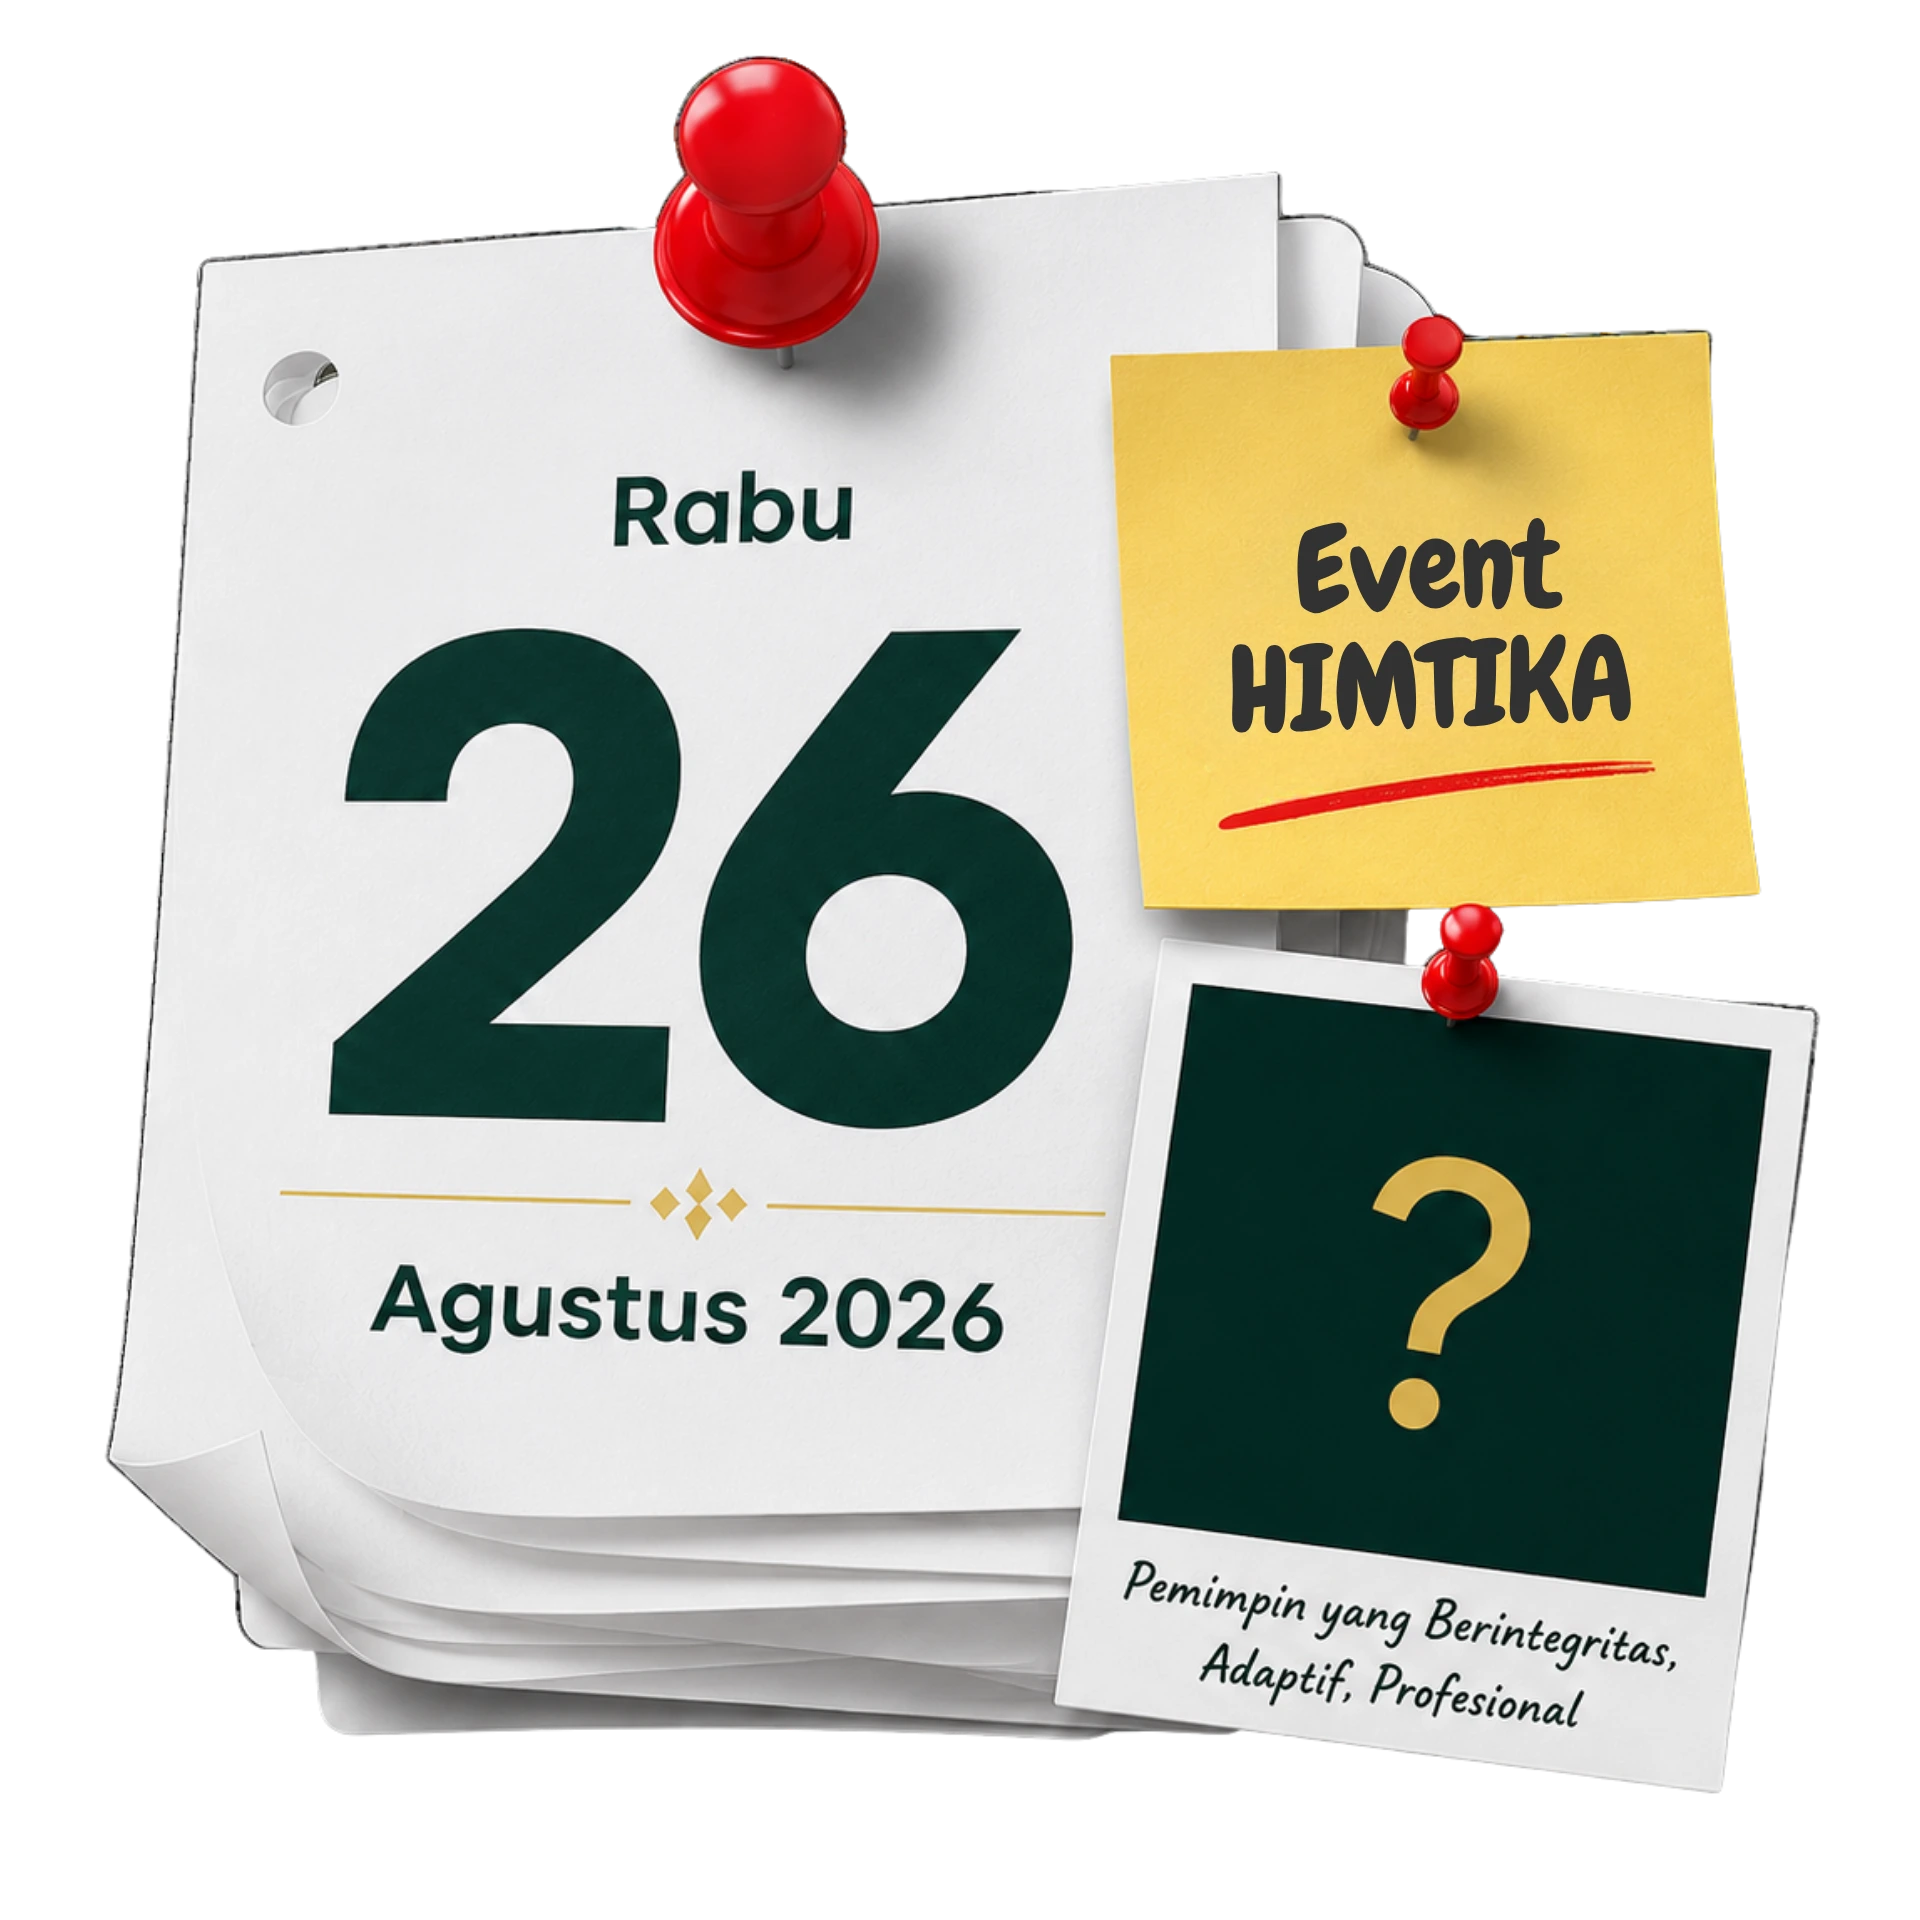
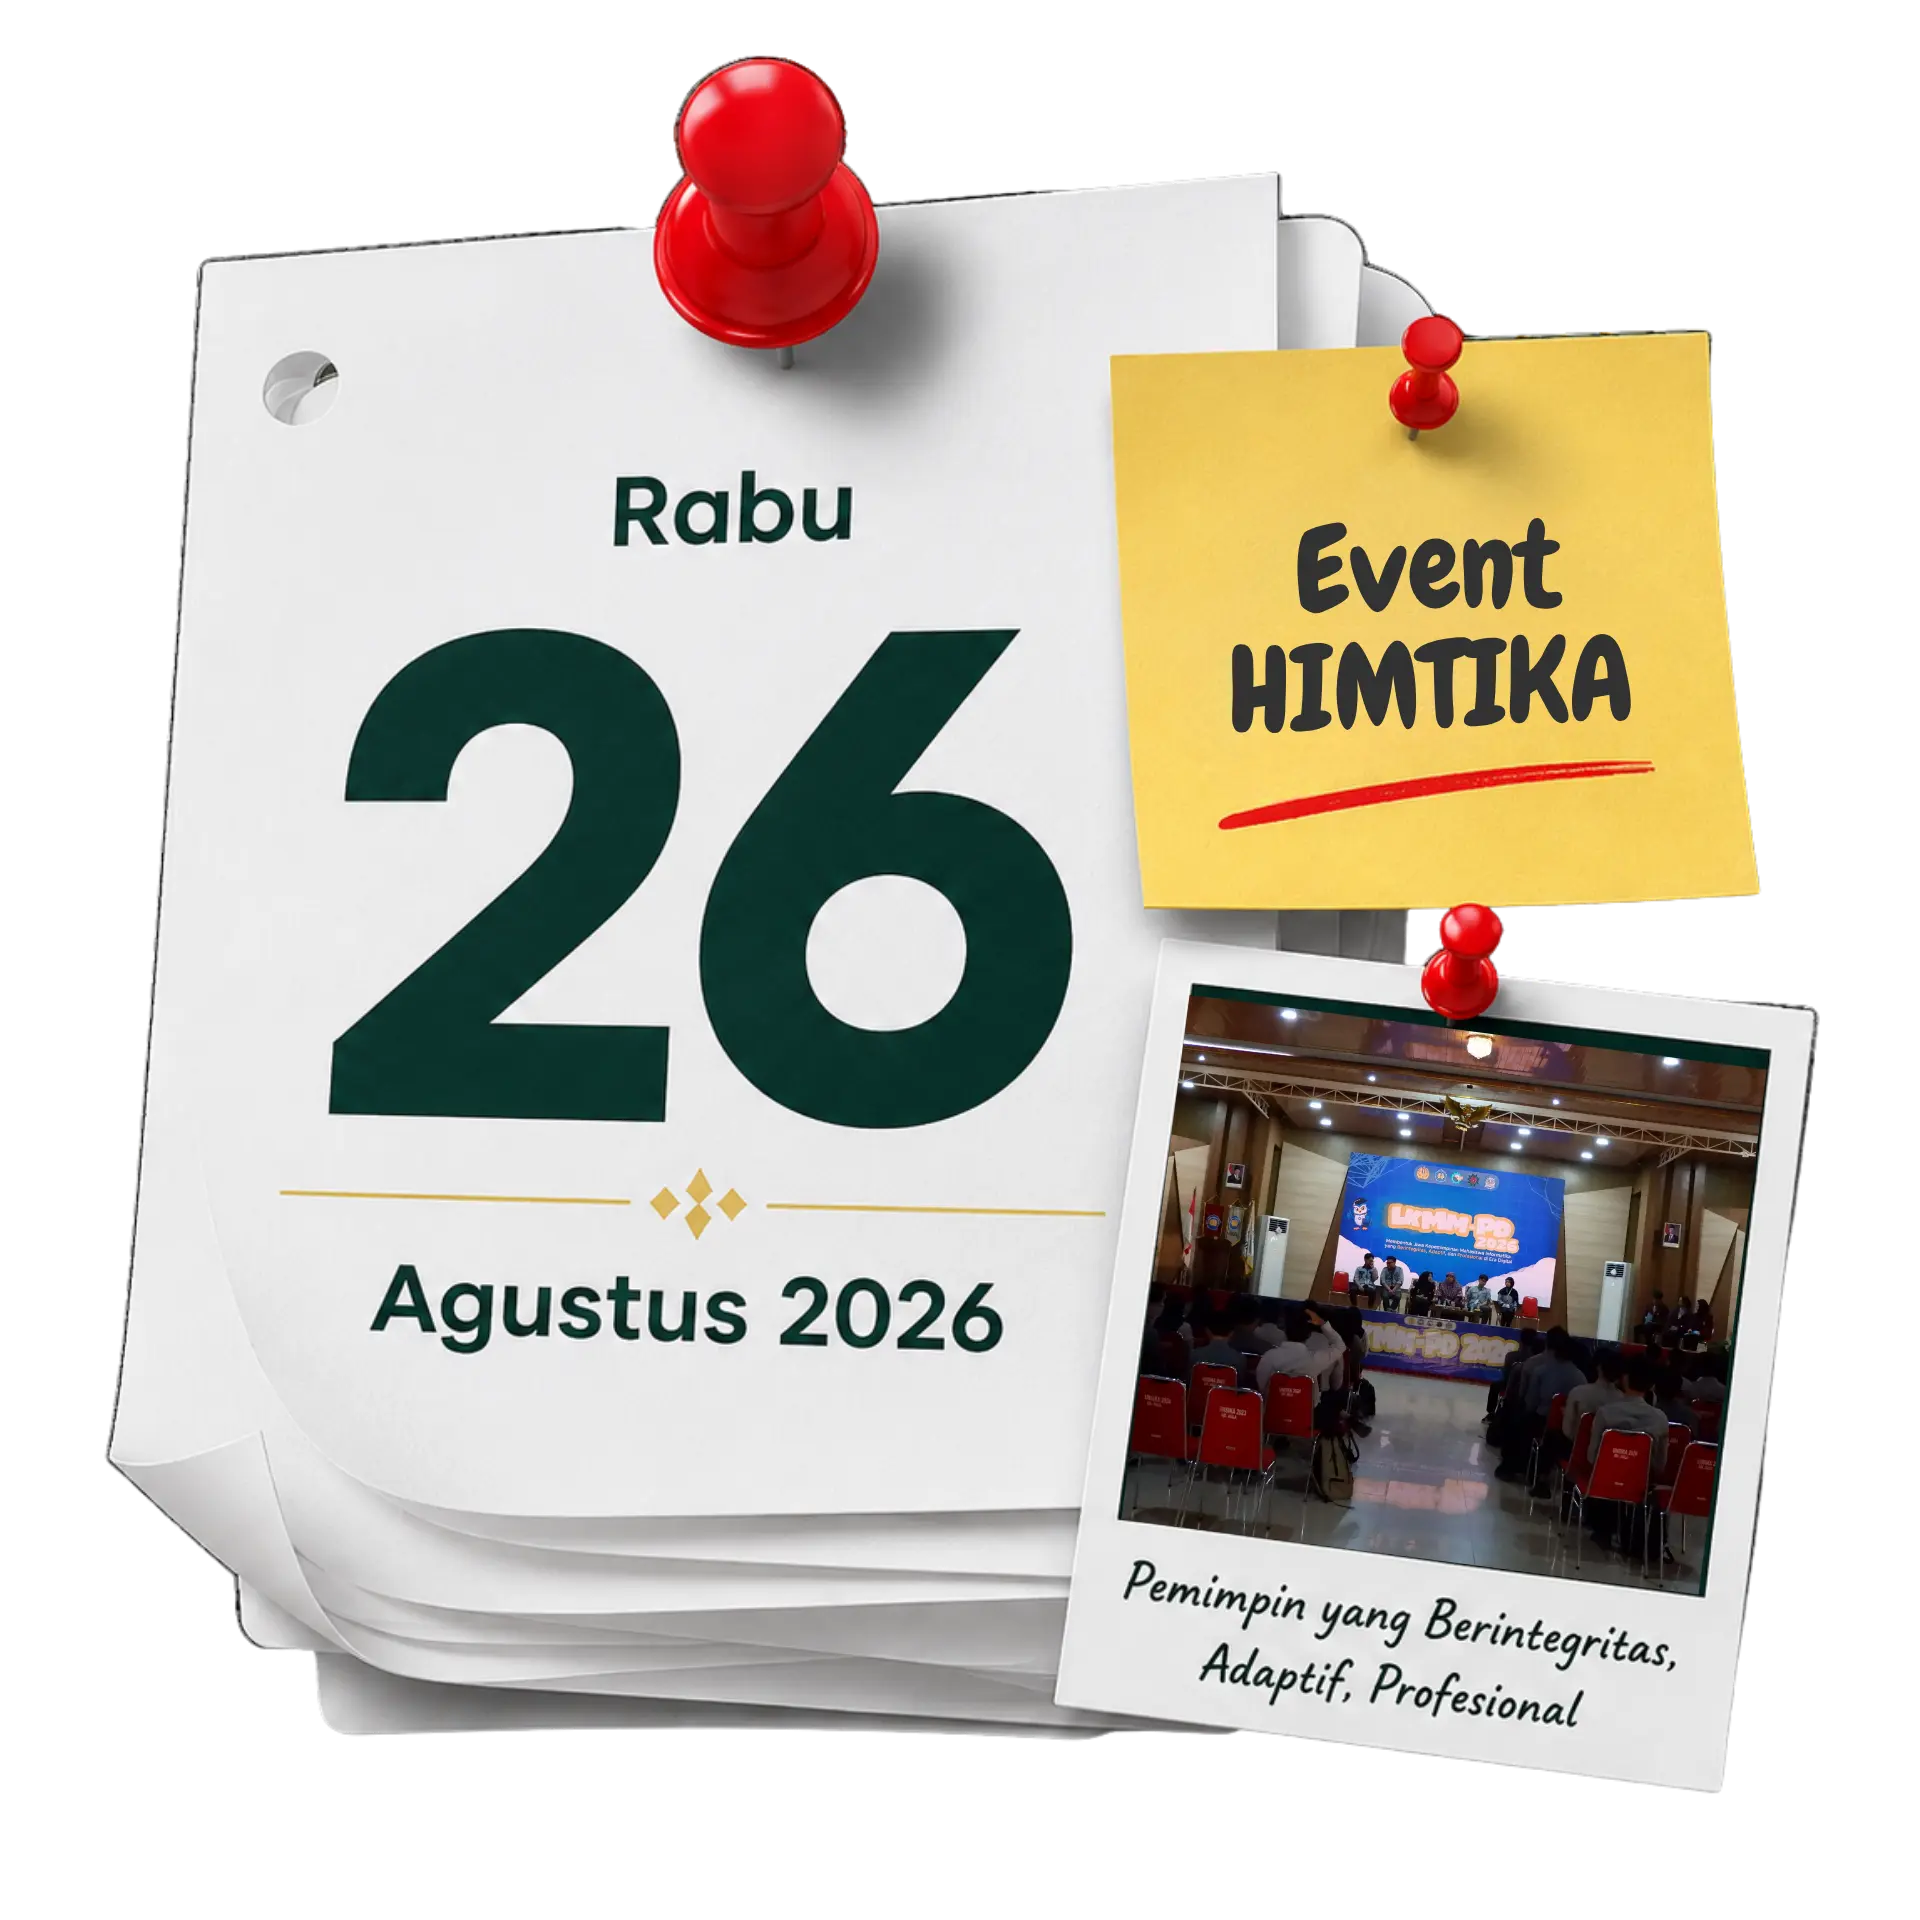
chore(calendar): add new agenda dates: lomba diesnatalis, legislative school, sosialisasi itb

Changed region(s): [[0.5625, 0.5, 0.9375, 0.875]]

diff --git a/assets/js/calendar-events.js b/assets/js/calendar-events.js
@@ -421,6 +421,126 @@ const calendarEvents = Object.freeze([
   },
   {
     id: "evt-009",
+    title: "Sosialisasi Dies Natalis HIMTIKA IX Championship",
+    start: "2026-08-24T19:00:00",
+    end: "2026-08-24T23:59:00",
+    timeLabel: "selesai",
+    category: "himtika",
+    organizer: "HIMTIKA Unsika",
+    location: "Zoom Meeting",
+    description: "",
+    dialogContent: `
+      <h3><strong>🌊 [SOSIALISASI DIES NATALIS HIMTIKA IX CHAMPIONSHIP] 🌊</strong></h3><br>
+
+      <p>Halo, Future Sailors! ⚓🌊</p>
+
+      <p>Sebuah perjalanan baru akan segera dimulai! Dalam rangka menyambut <b>Dies Natalis HIMTIKA ke-9</b>, kami mengajak seluruh Future Sailors untuk bersama-sama mengenal lebih dalam rangkaian perjalanan yang telah dipersiapkan. 🧭✨</p>
+
+      <p>
+      Penasaran dengan apa saja yang akan hadir dan bagaimana kalian bisa menjadi bagian dari perjalanan ini? 👀
+      </p>
+
+      <p>
+      Jangan khawatir, kami akan membuka peta perjalanan melalui <strong>Sosialisasi Dies Natalis HIMTIKA IX Championship! 🌊⚓</strong> Sosialisasi ini akan membahas berbagai informasi penting seputar rangkaian acara Dies Natalis HIMTIKA IX.
+      </p>
+      
+      <span><strong>Catat jadwalnya, ya! 📌</strong></span><br>
+      <p><strong>
+      <span>🗓 Senin, 24 Agustus 2026</span><br>
+      <span>⏰ 19.00 WIB – Selesai</span><br>
+      <span>📍 Zoom Meeting: <br>(<a href="https://us06web.zoom.us/j/81453051465">https://us06web.zoom.us/j/81453051465</a>)</span><br><br>
+      <span>🖼 Virtual Background: <br>(<a href="https://drive.google.com/file/d/1zxBGbYHQR8g_g9wd4vfLSbtM8hcERC64/view?usp=drive_link">https://drive.google.com/file/d/1zxBGbYHQR8g_g9wd4vfLSbtM8hcERC64/view?usp=drive_link</a>)</span><br><br>
+      <span>📖 Guidebook: <br>(<a href="https://canva.link/su6vetss7tf06xn">https://canva.link/su6vetss7tf06xn</a>)</span><br><br>
+      <span>💬 Contact Person: <br>Wisnu - (<a href="https://wa.me/qr/S4PCW4F4AWKMG1">https://wa.me/qr/S4PCW4F4AWKMG1</a>)</span><br><br>
+      </strong></p>
+
+      <p>
+      📱 Ikuti informasi terbaru di Instagram:<br>
+      <span><a href="https://www.instagram.com/himtika_unsika/">@himtika_unsika</a></span><br>
+      <span><a href="https://www.instagram.com/diesnatalis.himtika/">@diesnatalis.himtika</a></span>
+      </p>
+      <p>
+      Mari berlayar dan selami perjalanan Dies Natalis HIMTIKA IX bersama! 🌊✨
+      </p>
+      <p>
+      <b>Dive Deeper. Grow Stronger. ⚓</b>
+      </p>
+      <p>
+        #DiesNatalisIX<br>
+        #DiveDeeperGrowStronger<br>
+        #HIMTIKA2026<br>
+        #BersamaKitaJaya<br>
+        #KabinetSelaras
+      </p>
+    `,
+    image: "./assets/images/events/bg-sosialisasi-diesnat.webp",
+    link: "https://www.instagram.com/diesnatalis.himtika/",
+    featured: true
+  },
+  {
+    id: "evt-010",
+    title: "Pendaftaran Lomba Dies Natalis HIMTIKA IX",
+    start: "2026-08-24T07:00:00",
+    end: "2026-08-31T23:59:00",
+    timeLabel: "selesai",
+    category: "himtika",
+    organizer: "HIMTIKA Unsika",
+    location: "Google Form",
+    description: "",
+    dialogContent: `
+      <h3><strong>🏆[OPEN REGISTRATION DIES NATALIS HIMTIKA IX CHAMPIONSHIP] 🌊</strong></h3><br>
+
+      <p>Halo, Future Sailors! ⚓🌊</p>
+
+      <p>Saatnya tunjukkan taji dan ukir prestasi di panggung <b>DIES NATALIS HIMTIKA IX CHAMPIONSHIP! 🥳🏆 </b></p>
+
+      <p>
+      Apakah kamu dan timmu yang siap menjadi juara, melibas semua lawan, dan menguasai arena? Jangan cuma jadi penonton, tunjukkan kemampuan terbaikmu sekarang! 🔥
+      </p>
+
+      <p><strong>
+      <span>🎮 Mobile Legends 💰 HTM: Rp50.000 / Tim</span><br>
+      <span>⚽ PES PlayStation 💰 HTM: Rp15.000 / Player</span><br>
+      <span>🎤 Vocal Music 💰 HTM: Free / Gratis</span>
+      </strong></p>
+      
+      <p><strong>
+      <span>📖 Guidebook: <br>(<a href="https://canva.link/su6vetss7tf06xn">https://canva.link/su6vetss7tf06xn</a>)</span><br><br>
+      <span>📝 Form Pendaftaran: <br>(<a href="https://bit.ly/PendaftaranDiesNatalisIXChampionship">https://bit.ly/PendaftaranDiesNatalisIXChampionship</a>)</span><br>
+      </strong></p>
+      
+      <span>📲 Contact Person:<br>
+      <ul>
+      <li>MLBB: Wisnu <br>(<a href="https://wa.me/qr/S4PCW4F4AWKMG1">https://wa.me/qr/S4PCW4F4AWKMG1</a>)</li>
+      <li>PES: Fazran <br>(<a href="https://wa.me/qr/WZOTCOLFRUCVF1">https://wa.me/qr/WZOTCOLFRUCVF1</a>)</li>
+      <li>Vocal Music: Kayla <br>(<a href="https://wa.me/6285779321250">https://wa.me/6285779321250</a>)</li>
+      </ul>
+
+      <p>
+      Tunggu apa lagi? Ambil kemudi, daftar sekarang, dan jadilah bagian dari sejarah kemenangan tahun ini! ⚓🏆
+      </p>
+      <p>
+      <b>Dive Deeper. Grow Stronger. ⚓</b>
+      </p>
+      <p>
+      📱 Ikuti informasi terbaru di Instagram:<br>
+      <span><a href="https://www.instagram.com/himtika_unsika/">@himtika_unsika</a></span><br>
+      <span><a href="https://www.instagram.com/diesnatalis.himtika/">@diesnatalis.himtika</a></span>
+      </p>
+      <p>
+        #DiesNatalisIX<br>
+        #DiveDeeperGrowStronger<br>
+        #HIMTIKA2026<br>
+        #BersamaKitaJaya<br>
+        #KabinetSelaras
+      </p>
+    `,
+    image: "./assets/images/events/bg-pendaftaran-lomba-diesnat.webp",
+    link: "https://www.instagram.com/diesnatalis.himtika/",
+    featured: true
+  },
+  {
+    id: "evt-011",
     title: "Pelaksanaan Kelas Study Club",
     start: "2026-08-15T07:00:00",
     end: "2026-08-15T23:59:00",
@@ -435,22 +555,76 @@ const calendarEvents = Object.freeze([
     featured: true
   },
   {
-    id: "evt-010",
+    id: "evt-012",
     title: "LKMM-PD",
     start: "2026-08-26T06:00:00",
-    end: "2026-08-26T16:00:00",
+    end: "2026-08-26T17:00:00",
     timeLabel: "",
     category: "himtika",
     organizer: "HIMTIKA Unsika",
     location: "Aula Syekh Quro Unsika",
     description: "Latihan Kepemimpinan dan Manajemen Mahasiswa untuk mahasiswa baru Informatika 2026",
+    dialogContent: `
+      <h3><strong>[LKMM PRA-DASAR 2026]</strong></h3><br>
+
+      <p>🚨 HARI YANG DINANTIKAN AKHIRNYA TIBA! 🚨</p>
+
+      <p>Halo, Calon Pemimpin Muda Informatika! 🤩👋🏻</p>
+
+      <p>
+      Setelah melewati berbagai persiapan, akhirnya hari ini kita akan memulai perjalanan bersama di LKMM PRA-DASAR 2026! 🔥
+      </p>
+
+      <p>
+      Sudah siap untuk belajar, berkembang, berproses, dan menciptakan pengalaman baru bersama? 🚀✨
+      </p>
+
+      <p><strong>
+      <span>🗓 Rabu, 26 Agustus 2026</span><br>
+      <span>⏰ 06.00 WIB – selesai</span><br>
+      <span>📍 Aula Syekh Quro, Universitas Singaperbangsa Karawang</span>
+      </strong></p>
+
+      <span><strong>⚠ NOTES:</strong></span><br>
+      <ol>
+      <li>Mahasiswa baru <strong>diperbolehkan membawa motor</strong> ke lingkungan kampus. Namun, segala bentuk kehilangan atau kerusakan kendaraan <strong>bukan tanggung jawab Panitia LKMMPD 2026</strong>.</li>
+      <li>Jangan membawa barang-barang yang dilarang seperti <strong>vape, rokok, parfum, senjata tajam, dan barang terlarang lainnya</strong>.<br>📖 Info lengkap bisa cek di Link Guidebook: <a href="https://bit.ly/GuidebookLKMMPD2026">https://bit.ly/GuidebookLKMMPD2026</a></li>
+      </ol>
+
+      <p>
+      Datang dengan semangat terbaik kalian, karena hari ini bukan sekadar tentang mengikuti kegiatan, tapi tentang memulai sebuah proses baru sebagai bagian dari keluarga besar Informatika. 💙
+      </p>
+      <p>
+      See you, calon pemimpin muda Informatika! 🔥<br><b>Embrace the Process, Create the Impact!</b>
+      </p>
+      <p>
+        #LKMMPD2026<br>
+        #HIMTIKA<br>
+        #BersamaKitaJaya<br>
+        #KabinetSelaras
+      </p>
+    `,
+    image: "./assets/images/events/bg-lkmmpd.webp",
+    link: "https://www.instagram.com/himtika_unsika/",
+    featured: true
+  },
+  {
+    id: "evt-013",
+    title: "Sosialisasi IT Bootcamp 2026",
+    start: "2026-09-14T19:00:00",
+    end: "2026-09-14T23:59:00",
+    timeLabel: "selesai",
+    category: "himtika",
+    organizer: "HIMTIKA Unsika",
+    location: "Zoom Meeting",
+    description: "Sosialisasi IT Bootcamp 2026",
     dialogContent: ``,
     image: "",
     link: "https://www.instagram.com/himtika_unsika/",
     featured: true
   },
   {
-    id: "evt-011",
+    id: "evt-014",
     title: "LKMM X Inaugurasi",
     start: "2026-09-19T06:00:00",
     end: "2026-09-20T23:59:00",
@@ -461,11 +635,11 @@ const calendarEvents = Object.freeze([
     description: "Program pembinaan dan pengenalan mahasiswa baru Fasilkom Unsika angkatan 2026 yang bertujuan membekali pengetahuan, keterampilan, dan sikap dalam manajemen organisasi sekaligus menumbuhkan rasa kekeluargaan, kebersamaan, dan keakraban antar mahasiswa dalam lingkungan Fasilkom.",
     dialogContent: ``,
     image: "",
-    link: "https://www.instagram.com/bemfasilkomunsika/",
+    link: "https://www.instagram.com/lkmminaufasilkom/",
     featured: true
   },
   {
-    id: "evt-012",
+    id: "evt-015",
     title: "IT Bootcamp",
     start: "2026-10-03T06:00:00",
     end: "2026-10-04T23:59:00",
@@ -499,7 +673,22 @@ const calendarEvents = Object.freeze([
     featured: true
   },
   {
-    id: "evt-013",
+    id: "evt-016",
+    title: "Legislative School",
+    start: "2026-10-10T06:00:00",
+    end: "2026-10-10T23:59:00",
+    timeLabel: "selesai",
+    category: "blm",
+    organizer: "BLM Fasilkom Unsika",
+    location: "Coming soon",
+    description: "Legislative School adalah kegiatan seperti seminar/talkshow perihal ranah legislatif dimana akan mengundang narasumber yang ahli dibidangnya seperti anggota DPR/DPRD serta akan ada simulasi persidangan di akhir kegiatan.",
+    dialogContent: ``,
+    image: "",
+    link: "https://www.instagram.com/ls.fasilkomunsika/",
+    featured: true
+  },
+  {
+    id: "evt-017",
     title: "Dies Natalis HIMTIKA IX",
     start: "2026-10-18T08:00:00",
     end: "2026-10-18T23:59:00",
@@ -514,7 +703,7 @@ const calendarEvents = Object.freeze([
     featured: true
   },
   {
-    id: "evt-014",
+    id: "evt-018",
     title: "Penutupan Pelaksanaan Study Club",
     start: "2026-10-25T08:00:00",
     end: "2026-10-25T23:59:00",

diff --git a/assets/css/style.css b/assets/css/style.css
@@ -1963,7 +1963,8 @@ img, svg {
     text-decoration: underline;
     text-underline-offset: 3px;
 }
-.event-dialog__custom-content strong {
+.event-dialog__custom-content strong,
+.event-dialog__custom-content b {
     color: var(--text);
 }
 .event-dialog__note {
